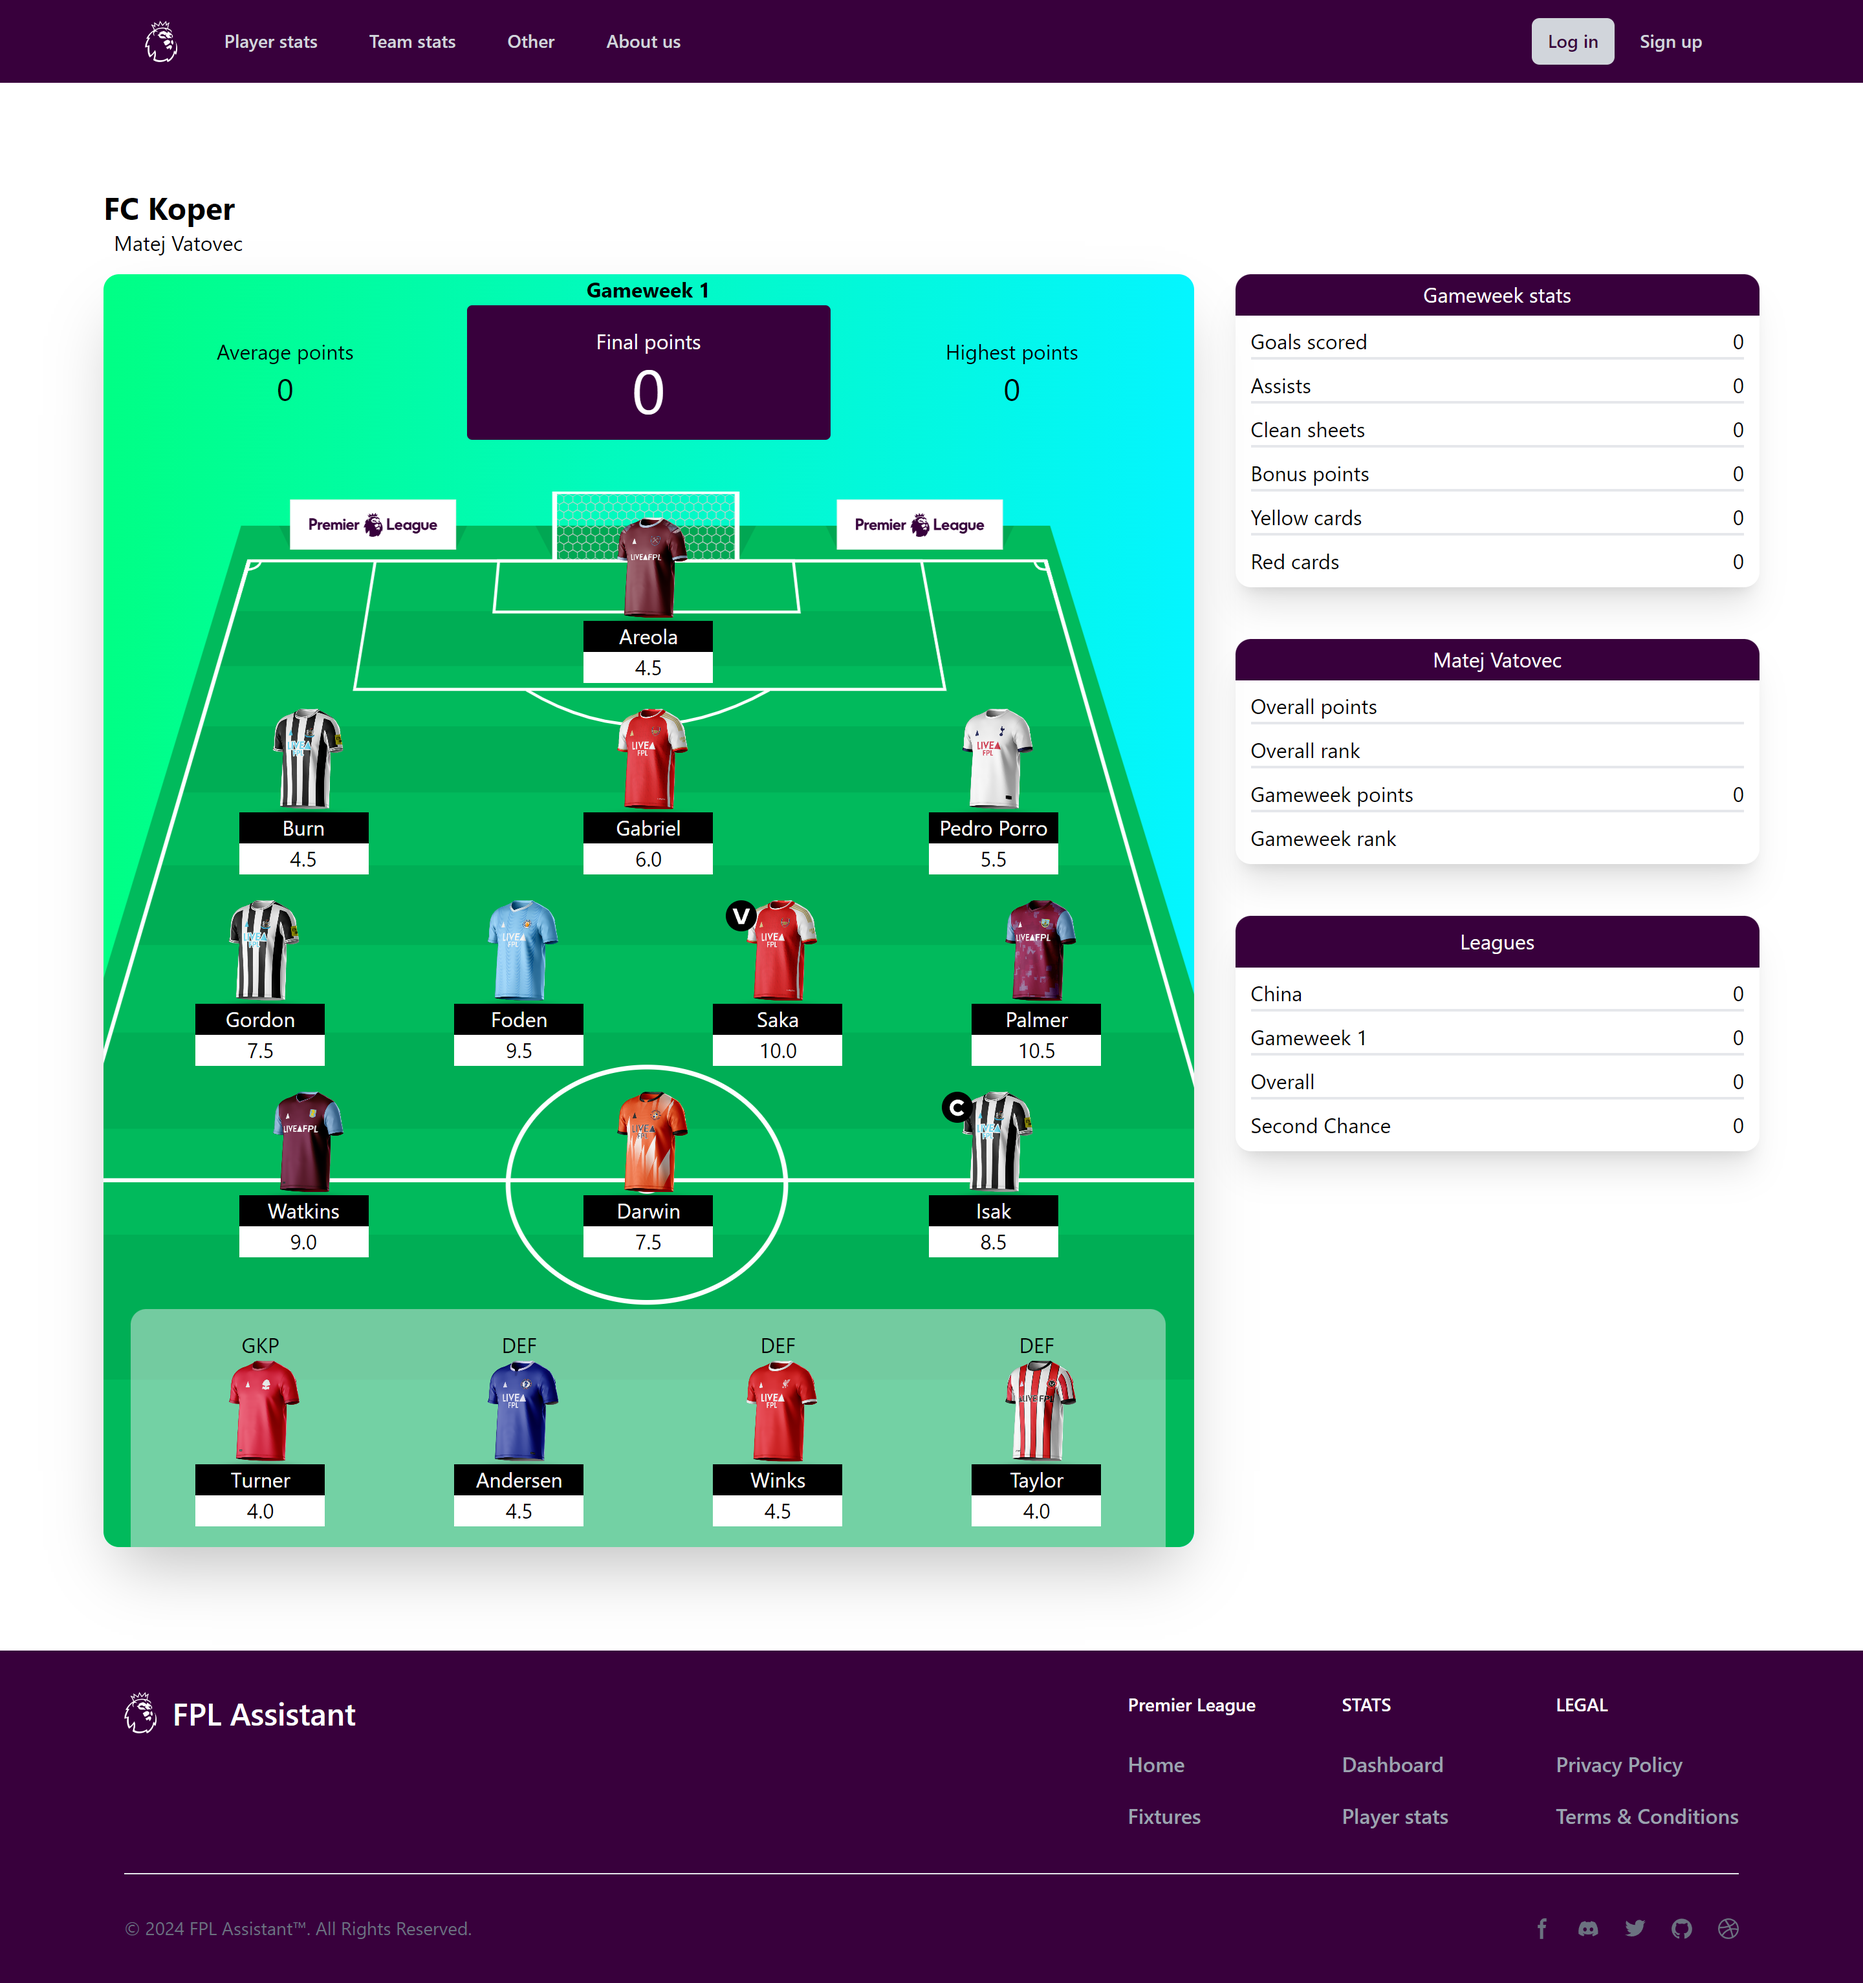
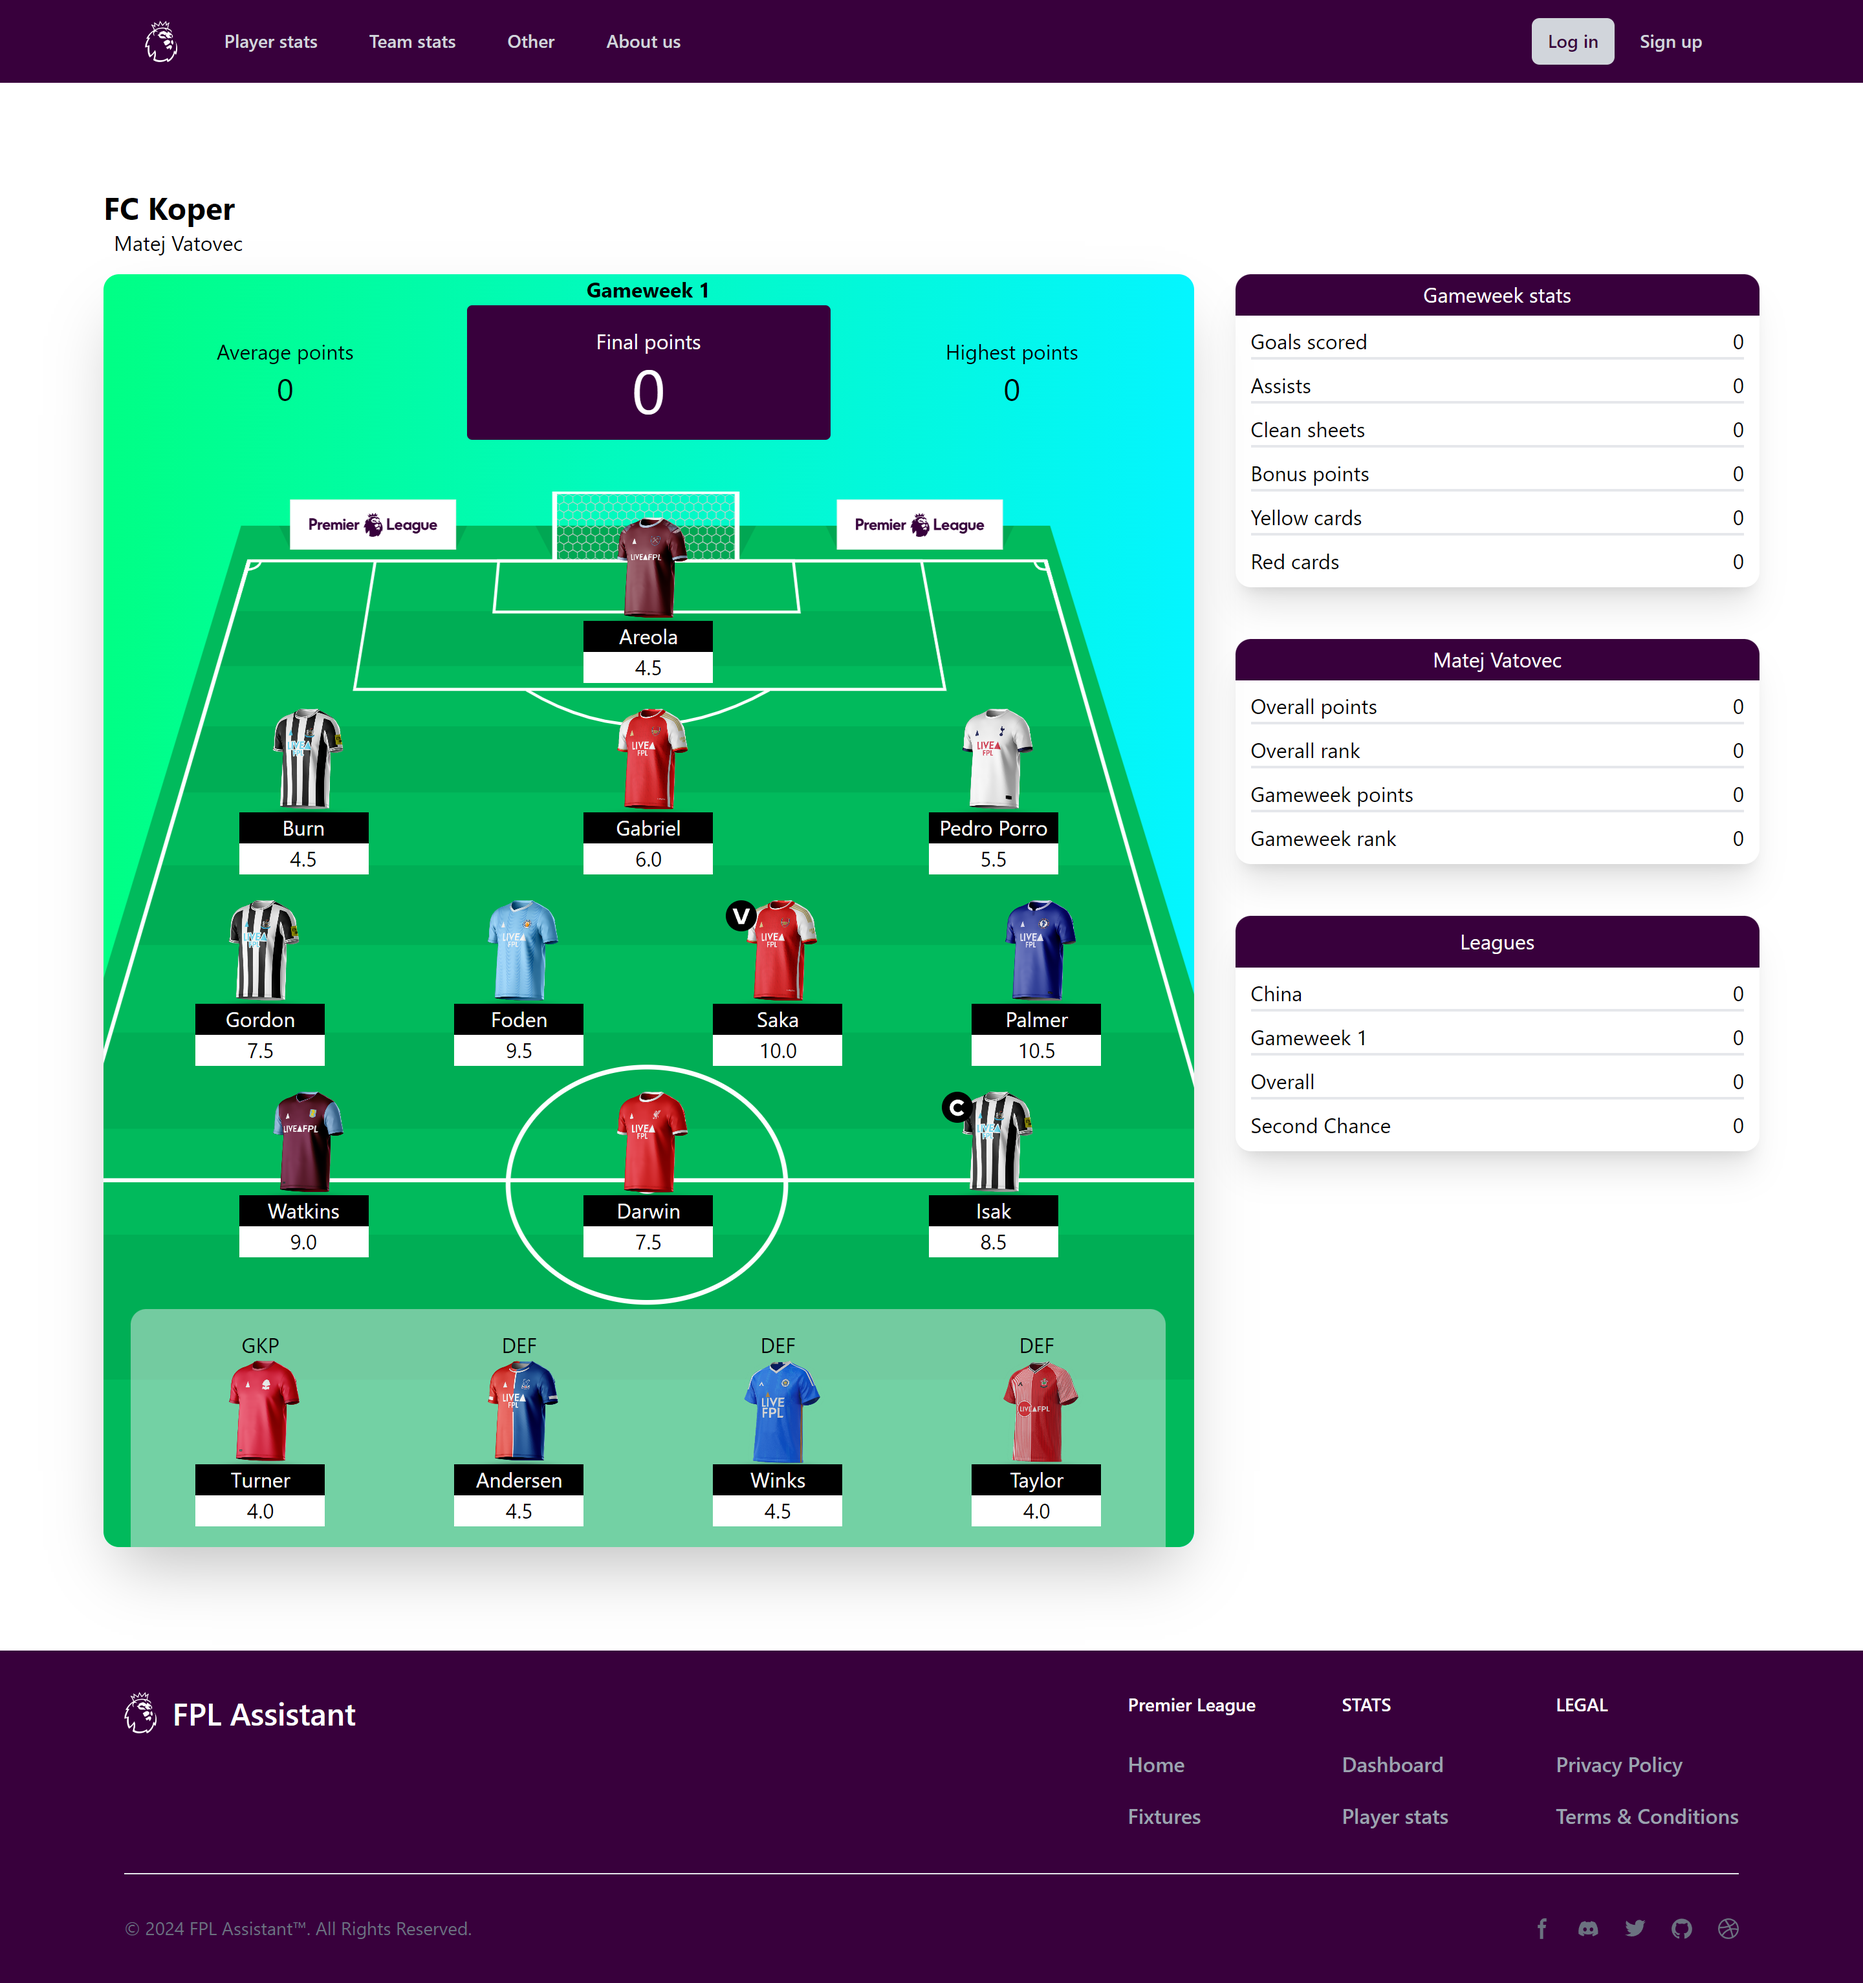
New shirts + path change, fixture date fix

diff --git a/nuxt-fpl/components/Player.vue b/nuxt-fpl/components/Player.vue
@@ -83,11 +83,11 @@
         </div>
       </Dialog>
     </TransitionRoot>
-  <!--<div v-if="false" class="bg-[url('/assets/img/1.png')] bg-[url('/assets/img/2.png')] bg-[url('/assets/img/3.png')] bg-[url('/assets/img/4.png')] bg-[url('/assets/img/5.png')]
-                           bg-[url('/assets/img/6.png')] bg-[url('/assets/img/7.png')] bg-[url('/assets/img/8.png')] bg-[url('/assets/img/9.png')] bg-[url('/assets/img/10.png')]
-                           bg-[url('/assets/img/11.png')] bg-[url('/assets/img/12.png')] bg-[url('/assets/img/13.png')] bg-[url('/assets/img/14.png')] bg-[url('/assets/img/15.png')]
-                           bg-[url('/assets/img/16.png')] bg-[url('/assets/img/17.png')] bg-[url('/assets/img/18.png')] bg-[url('/assets/img/19.png')] bg-[url('/assets/img/20.png')]"></div>
--->
+  <div v-if="false" class="bg-[url('/assets/img/team_shirts/1.png')] bg-[url('/assets/img/team_shirts/2.png')] bg-[url('/assets/img/team_shirts/3.png')] bg-[url('/assets/img/team_shirts/4.png')] bg-[url('/assets/img/team_shirts/5.png')]
+                           bg-[url('/assets/img/team_shirts/6.png')] bg-[url('/assets/img/team_shirts/7.png')] bg-[url('/assets/img/team_shirts/8.png')] bg-[url('/assets/img/team_shirts/9.png')] bg-[url('/assets/img/team_shirts/10.png')]
+                           bg-[url('/assets/img/team_shirts/11.png')] bg-[url('/assets/img/team_shirts/12.png')] bg-[url('/assets/img/team_shirts/13.png')] bg-[url('/assets/img/team_shirts/14.png')] bg-[url('/assets/img/team_shirts/15.png')]
+                           bg-[url('/assets/img/team_shirts/16.png')] bg-[url('/assets/img/team_shirts/17.png')] bg-[url('/assets/img/team_shirts/18.png')] bg-[url('/assets/img/team_shirts/19.png')] bg-[url('/assets/img/team_shirts/20.png')]"></div>
+
 </template>
 
 <script setup>
@@ -98,7 +98,7 @@ const props = defineProps({
   },
 });
 const {player} = props;
-const team_path = "bg-[url('/assets/img/" + player.team + ".png')]"
+const team_path = "bg-[url('/assets/img/team_shirts/" + player.team + ".png')]"
 import { ref } from 'vue'
 import { Dialog, DialogPanel, DialogTitle, TransitionChild, TransitionRoot } from '@headlessui/vue'
 const open = ref(false)

diff --git a/nuxt-fpl/pages/index.vue b/nuxt-fpl/pages/index.vue
@@ -109,9 +109,9 @@
                 <div v-for="index of fixtureData.length">
                     <div class="flex flex-col w-max m-auto mb-3">
                         <div v-if="index == 1 || fixtureData[index - 1].kickoff_time.split('T')[0] != fixtureData[index - 2].kickoff_time.split('T')[0]" class="text-center mt-5">
-                            {{ Date(Date.parse(fixtureData[index - 1].kickoff_time)).split(" ")[0] }}<!-- v-else-if="fixtureData[index].kickoff_time.split('T')[0] != fixtureData[Math.max(1, index-1)].kickoff_time.split('T')[0]" -->
-                            {{ Date(Date.parse(fixtureData[index - 1].kickoff_time)).split(" ")[2] }}
-                            {{ Date(Date.parse(fixtureData[index - 1].kickoff_time)).split(" ")[1] }}
+                            {{ (new Date(fixtureData[index - 1].kickoff_time)).toString().split(" ")[0] }} <!-- v-else-if="fixtureData[index].kickoff_time.split('T')[0] != fixtureData[Math.max(1, index-1)].kickoff_time.split('T')[0]" -->
+                            {{ (new Date(fixtureData[index - 1].kickoff_time)).toString().split(" ")[2] }}
+                            {{ (new Date(fixtureData[index - 1].kickoff_time)).toString().split(" ")[1] }}
                         </div>
                         <div class="flex w-max m-auto gap-3 text-center">
                             <div class="h-max m-auto w-12">

diff --git a/nuxt-fpl/components/PlayerPosition.vue b/nuxt-fpl/components/PlayerPosition.vue
@@ -93,7 +93,7 @@ const props = defineProps({
   },
 });
 const {player} = props;
-const team_path = "bg-[url('/assets/img/" + player.team + ".png')]"
+const team_path = "bg-[url('/assets/img/team_shirts/" + player.team + ".png')]"
 function getPosition(player){
     if (player.element_type == 1){
         return "GKP"
